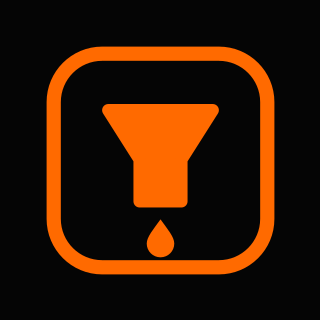
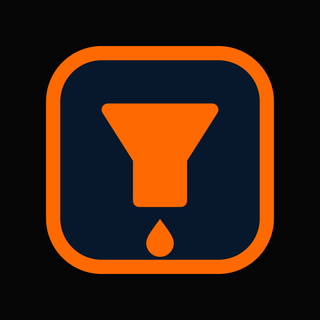
Standardize the definitive navy badge brand mark everywhere (#76)
The old navy T-funnel logo (tuveloz-google-profile-logo.png) is deleted.
The definitive mark is the badge from the social kit — orange funnel and
detached drop with an orange keyline — with the interior standardized on
brand navy #07182D (the site's existing navy):

- Regenerated every public/ icon and the og-image from the brand masters
  (favicon.ico, favicon SVGs, apple-touch-icon, icon-192/512), with ?v=4
  cache-busting in the layout and manifest.
- Recolored the whole brand kit to the navy interior: master + all five
  platform profile sizes, lockup, Facebook cover, previews, email and
  black lockups, and both vector sources.
- The site header/footer BrandMark now matches the badge: navy fill,
  solid orange keyline, orange funnel.
- Added scripts/generate-brand-assets.mjs — regenerates all site logo
  assets from the brand masters so the site can never drift from the
  kit again; README documents the workflow.

All 256 tests pass; header mark verified in the dev server.

diff --git a/app/layout.tsx b/app/layout.tsx
@@ -15,10 +15,10 @@ export const metadata: Metadata = {
     "Post what your vehicle needs and compare real quotes from local independent providers in Montgomery County, MD. Providers join free — customer launch coming soon.",
   icons: {
     icon: [
-      { url: "/favicon.ico?v=3", sizes: "32x32" },
-      { url: "/tuveloz-favicon-v2.svg?v=3", type: "image/svg+xml" },
+      { url: "/favicon.ico?v=4", sizes: "32x32" },
+      { url: "/tuveloz-favicon-v2.svg?v=4", type: "image/svg+xml" },
     ],
-    apple: "/apple-touch-icon.png?v=3",
+    apple: "/apple-touch-icon.png?v=4",
   },
   openGraph: {
     title: "Tuveloz | Customer Choice. Provider Freedom.",
@@ -27,7 +27,7 @@ export const metadata: Metadata = {
     url: "https://tuveloz.com/",
     type: "website",
     images: [{
-      url: "/og-image.png?v=3",
+      url: "/og-image.png?v=4",
       width: 1200,
       height: 630,
       alt: "Tuveloz — Vehicle Services. Customer Choice. Provider Freedom.",
@@ -35,7 +35,7 @@ export const metadata: Metadata = {
   },
   twitter: {
     card: "summary_large_image",
-    images: ["/og-image.png?v=3"],
+    images: ["/og-image.png?v=4"],
   },
 };
 
@@ -44,7 +44,7 @@ const organizationSchema = {
   "@type": "Organization",
   name: "Tuveloz",
   url: "https://tuveloz.com",
-  logo: "https://tuveloz.com/icon-512.png?v=3",
+  logo: "https://tuveloz.com/icon-512.png?v=4",
   email: "hello@tuveloz.com",
   areaServed: "Montgomery County, Maryland",
 };

diff --git a/app/globals.css b/app/globals.css
@@ -71,12 +71,12 @@ a {
 
 .brand-mark {
   align-items: center;
-  background: linear-gradient(145deg, #ff8a2a 0%, #ff6a00 72%);
+  background: #07182d;
   border-radius: 9px;
   box-shadow:
-    inset 0 0 0 1px rgba(255, 255, 255, 0.16),
+    inset 0 0 0 2px #ff6a00,
     0 5px 14px rgba(255, 106, 0, 0.16);
-  color: #07182d;
+  color: #ff6a00;
   display: inline-flex;
   font-size: 17px;
   height: 32px;
@@ -404,10 +404,10 @@ a {
 
 .mini-mark {
   align-items: center;
-  background: linear-gradient(145deg, #ff8a2a 0%, #ff6a00 72%);
+  background: #07182d;
   border-radius: 7px;
-  box-shadow: inset 0 0 0 1px rgba(255, 255, 255, 0.14);
-  color: #07182d;
+  box-shadow: inset 0 0 0 2px #ff6a00;
+  color: #ff6a00;
   display: flex;
   font-size: 11px;
   font-weight: 900;
@@ -4398,10 +4398,8 @@ body {
 .brand-mark,
 .mini-mark {
   background: #07182d;
-  border: 1px solid rgba(255, 106, 0, 0.48);
-  box-shadow:
-    inset 0 0 0 1px rgba(255, 255, 255, 0.035),
-    0 6px 16px rgba(0, 0, 0, 0.22);
+  border: 2px solid #ff6a00;
+  box-shadow: 0 6px 16px rgba(0, 0, 0, 0.22);
   color: #ff6a00;
 }
 

diff --git a/brand/social-media-kit/README.md b/brand/social-media-kit/README.md
@@ -1,9 +1,17 @@
-# Tuveloz Brand Kit (v2)
+# Tuveloz Brand Kit (v3 — DEFINITIVE)
 
-One unified mark everywhere: the Tuveloz badge — chunky funnel + drop in orange
-(`#FF6A00`) inside a rounded square with orange keyline on brand black (`#050505`).
-Master vector: [`brand/tuveloz-icon.svg`](../tuveloz-icon.svg). The website favicon
-(`public/tuveloz-favicon-v2.svg`) is the same badge, so site + socials + email match.
+One unified mark everywhere: the Tuveloz badge — chunky funnel + detached drop in
+orange (`#FF6A00`) inside a rounded square with orange keyline on brand **navy**
+(`#07182D`). Master raster: `tuveloz-profile-master-1024.png` (this folder).
+Master vector: [`brand/tuveloz-icon.svg`](../tuveloz-icon.svg).
+
+**Every website icon and social image is generated from these masters — never
+hand-pick or re-draw the logo.** To regenerate the site's favicon, app icons,
+and og-image after any master change, run:
+
+```bash
+node scripts/generate-brand-assets.mjs
+```
 
 ## Profile pictures (this folder)
 
@@ -26,9 +34,13 @@ Badge sits at 76% of canvas so circular crops never clip the keyline.
 - `brand/tuveloz-lockup-horizontal.svg` — vector source for the lockup.
 
 Tagline in use: **"Customer choice. Provider freedom."** — matches the website
-title. Badge background is brand black (`#050505`), same as the site theme.
+title. Badge interior is brand navy (`#07182D`); page/canvas background stays
+brand black (`#050505`).
 
 ## Regenerating
 
-Edit `brand/tuveloz-icon.svg`, then re-run the build script (rasterizes the SVG
-with sharp at each size and composites the avatar canvases).
+Edit the masters here (or `brand/tuveloz-icon.svg` for the vector), then run
+`node scripts/generate-brand-assets.mjs` to rebuild everything in `public/`
+(favicon.ico, favicon SVGs, apple-touch-icon, icon-192/512, og-image). Bump the
+`?v=` query string in `app/layout.tsx` and `public/manifest.webmanifest` after
+regenerating so cached copies stop being served.
